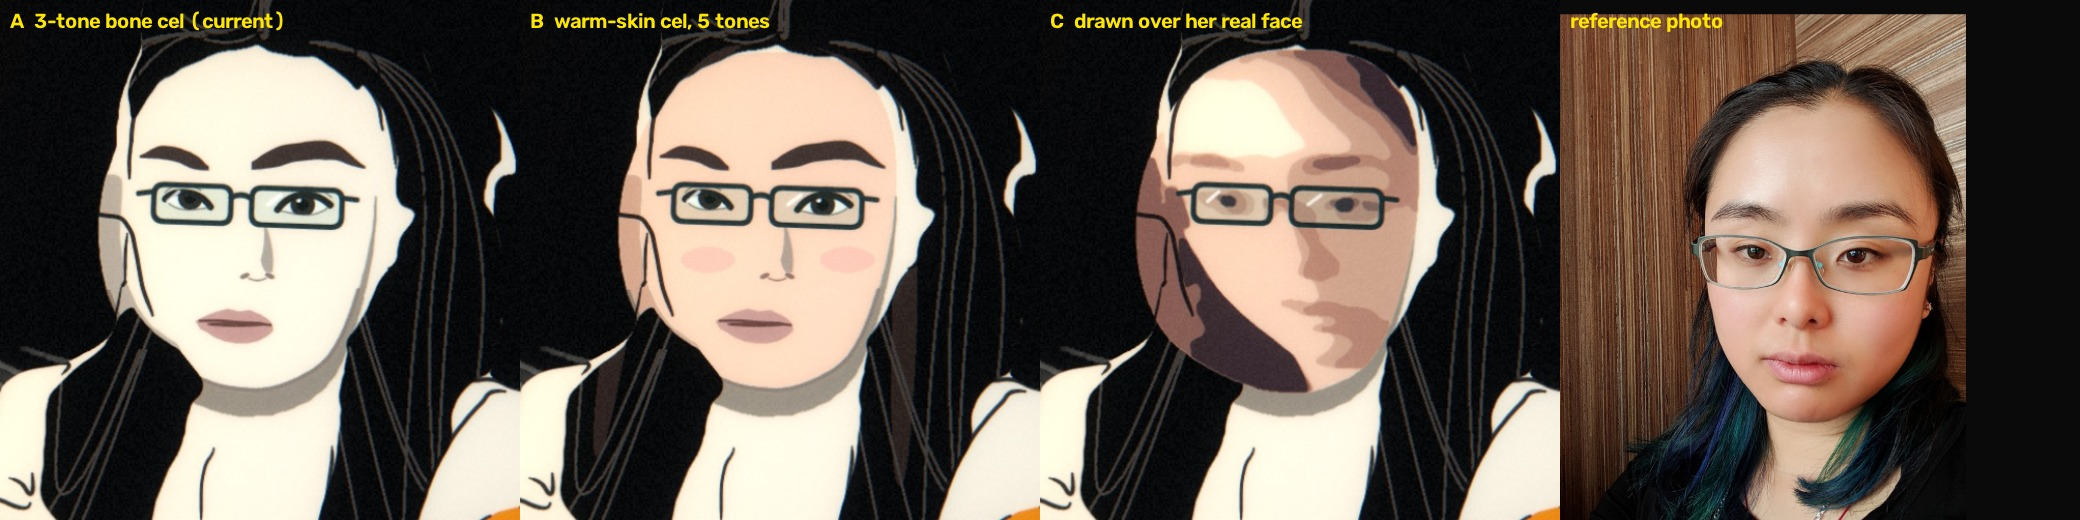
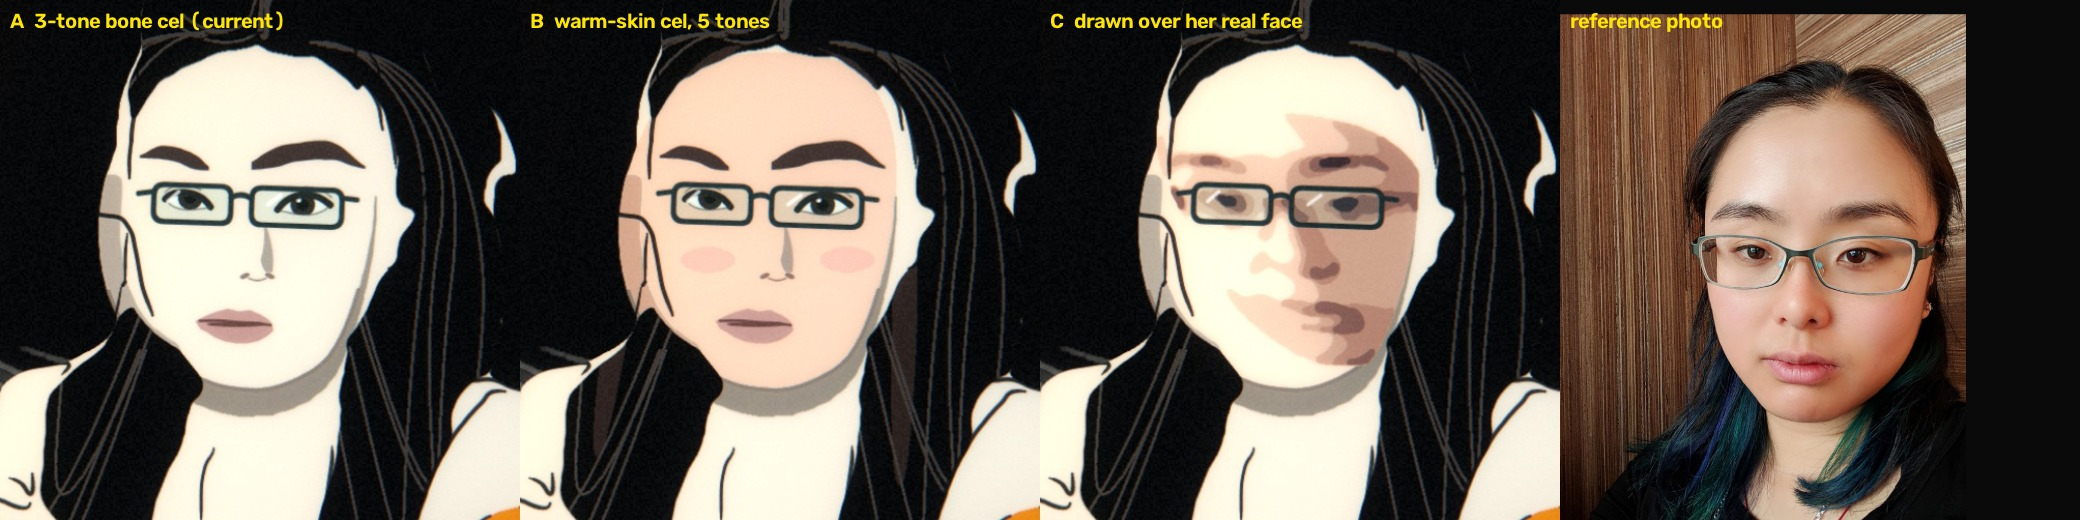
Direction: driver's license; continuous reverse motion in all rewinds
Claude-Session: https://claude.ai/code/session_01QH8JxH6iaaco1ynhTZZBdC

Changed region(s): [[0.5312, 0.3077, 0.6875, 0.7692], [0.5625, 0.0923, 0.6875, 0.3385]]

diff --git a/tools/jade2/build.py b/tools/jade2/build.py
@@ -12,7 +12,7 @@ W, H = 1920, 1080
 SH = json.load(open(ROOT + '/tools/jade2/jade_shape.json'))
 TF = json.load(open(ROOT + '/tools/roto/templates/jade_front.json'))
 # MediaPipe's oval stops at the upper forehead; her real forehead / upper head is larger: lift the upper oval (rounded)
-LIFT, LOWER, CHEEK = 1.30, 0.93, 1.07
+LIFT, LOWER, CHEEK = 1.48, 0.93, 1.07
 _ny = SH['nose_tip'][1]
 def _shape(P):
     P = np.array(P, np.float64)
@@ -106,8 +106,8 @@ def build_frame(J, i, frame, meta, fd, pf):
         inner = cv2.erode(face, np.ones((int(iod * 0.16) | 1, int(iod * 0.16) | 1), np.uint8)); hair[inner > 0] = 0   # hair may overlap the cheek edges, never the face centre
         # hairline: centre part a little below the oval top, curving down to the temples (large forehead stays visible)
         ovp = np.array(proj(SH['oval'])); ov = apply(M, ovp)
-        templeL = ov[np.argmin(np.abs(ovp[:, 1] + 0.72) + (ovp[:, 0] > 0) * 9)]; templeR = ov[np.argmin(np.abs(ovp[:, 1] + 0.72) + (ovp[:, 0] < 0) * 9)]
-        part = apply(M, proj([[0.05, 0.96, 0.2]]))[0]
+        templeL = ov[np.argmin(np.abs(ovp[:, 1] + 0.85) + (ovp[:, 0] > 0) * 9)]; templeR = ov[np.argmin(np.abs(ovp[:, 1] + 0.85) + (ovp[:, 0] < 0) * 9)]
+        part = apply(M, proj([[0.05, 1.12, 0.2]]))[0]
         up = (top - (templeL + templeR) / 2); up /= max(1e-6, np.linalg.norm(up))
         crown = []
         # hair cap over the forehead top: two curtains from the part to each temple
@@ -305,7 +305,12 @@ def variant_C(J, i, out, frame, info, face, hair, iod):
     sm = warped
     for _ in range(4): sm = cv2.bilateralFilter(sm, 11, 30, 11)
     sm = cv2.medianBlur(sm, 9)
-    region = cv2.dilate(face, np.ones((5, 5), np.uint8)) > 0
+    OV = [10, 338, 297, 332, 284, 251, 389, 356, 454, 323, 361, 288, 397, 365, 379, 378, 400, 377, 152, 148, 176, 149, 150, 136, 172, 58, 132, 93, 234, 127, 162, 21, 54, 103, 67, 109]
+    po = (np.c_[P[OV], np.ones(len(OV))] @ A.T)
+    pm = np.zeros(face.shape, np.uint8); cv2.fillPoly(pm, [np.round(chaikin(po, 3) * 4).astype(np.int32)], 1, cv2.LINE_AA, shift=2)
+    region = (cv2.dilate(face, np.ones((5, 5), np.uint8)) > 0) & (pm > 0)
+    # her face skin inside her own face outline; outside it (forehead top / temples) keep the cel skin
+    res0 = out.copy(); bone = (np.abs(res0[..., :3].astype(int) - BONE).sum(-1) < 12) & (face > 0); res0[bone, :3] = (204, 222, 244); out = res0
     px = sm[region].reshape(-1, 3).astype(np.float32)
     crit = (cv2.TERM_CRITERIA_EPS + cv2.TERM_CRITERIA_MAX_ITER, 30, 0.5)
     _, lab, cen = cv2.kmeans(px, 6, None, crit, 3, cv2.KMEANS_PP_CENTERS)

diff --git a/docs/SHOTLIST.md b/docs/SHOTLIST.md
@@ -25,8 +25,8 @@ HUD = eval bar (left), ATTEMPT counter (top-left mono), search tree (grows acros
 | 28.53–29.56 | B1 flood | Mirror floods red/blue (silent sirens). Mono `SIRENS (SILENT)`. | C | E3 |
 | 29.56–32.50 | B2 pull over | Car decelerates to shoulder (exterior). HUD: `1. pull over ?!` ; tree draws node 1. | C | E-pull |
 | 32.50–35.93 | B3 formation | 4 suits in formation walk toward camera — REDACTION figures, sunglass glints on "shades". Center-framed, symmetrical (K-pop formation). | C | **S1** |
-| 35.93–38.50 | B4 ID | Jade's hands, reaching; NASA ID badge (our drawing). The [pause]: everything slows; eval bar sliding. | C | **J3** |
-| 38.50–40.57 | B5 and I do | Badge held up at the window; suit's sunglasses reflect her. | A "and I do" | J3/S2 |
+| 35.93–38.50 | B4 ID | Jade's hands, reaching; her DRIVER LICENSE (our drawing, generic design). The [pause]: everything slows; eval bar sliding. | C | **J3** |
+| 38.50–40.57 | B5 and I do | License held up at the window; suit's sunglasses reflect her. | A "and I do" | J3/S2 |
 | 40.57–42.89 | B6 no warning | Suit's arm rises; clock ticks accelerate; cuts tighten to 16ths. | B "WITH NO WARNING" | **S2** |
 | 42.89 | SHOT | FREEZE (Superhot). Muzzle flash frozen as a drawn star; bullet a single white line. | B "SHOT" | — |
 | 43.24–43.92 | burst/inhale | Impact invert at 43.24; inhale 43.73: frame breathes (zoom 1.02). "and time" | C | — |

diff --git a/docs/TREATMENT.md b/docs/TREATMENT.md
@@ -87,3 +87,5 @@ impacts, speed lines, stutter frames on vocal chops, never a static frame > 2 ba
   hypnagogic JERK — the falling-jolt snap (hard 1-frame vertical jump + flash) at each rewind's start; heart racing
   under a calm surface (heartbeat-synced vignette pulse even in quiet verses); vision going soft at the edges then
   snapping sharp on the beat; a radio-static whisper layer of text. The rewind itself is waking up inside the dream.
+- (user) The ID is her DRIVER'S LICENSE, not a NASA badge. And every rewind must continuously show actual reverse
+  motion of earlier footage + ghost multiples of her past runs as the base layer; type/case files are overlays.
